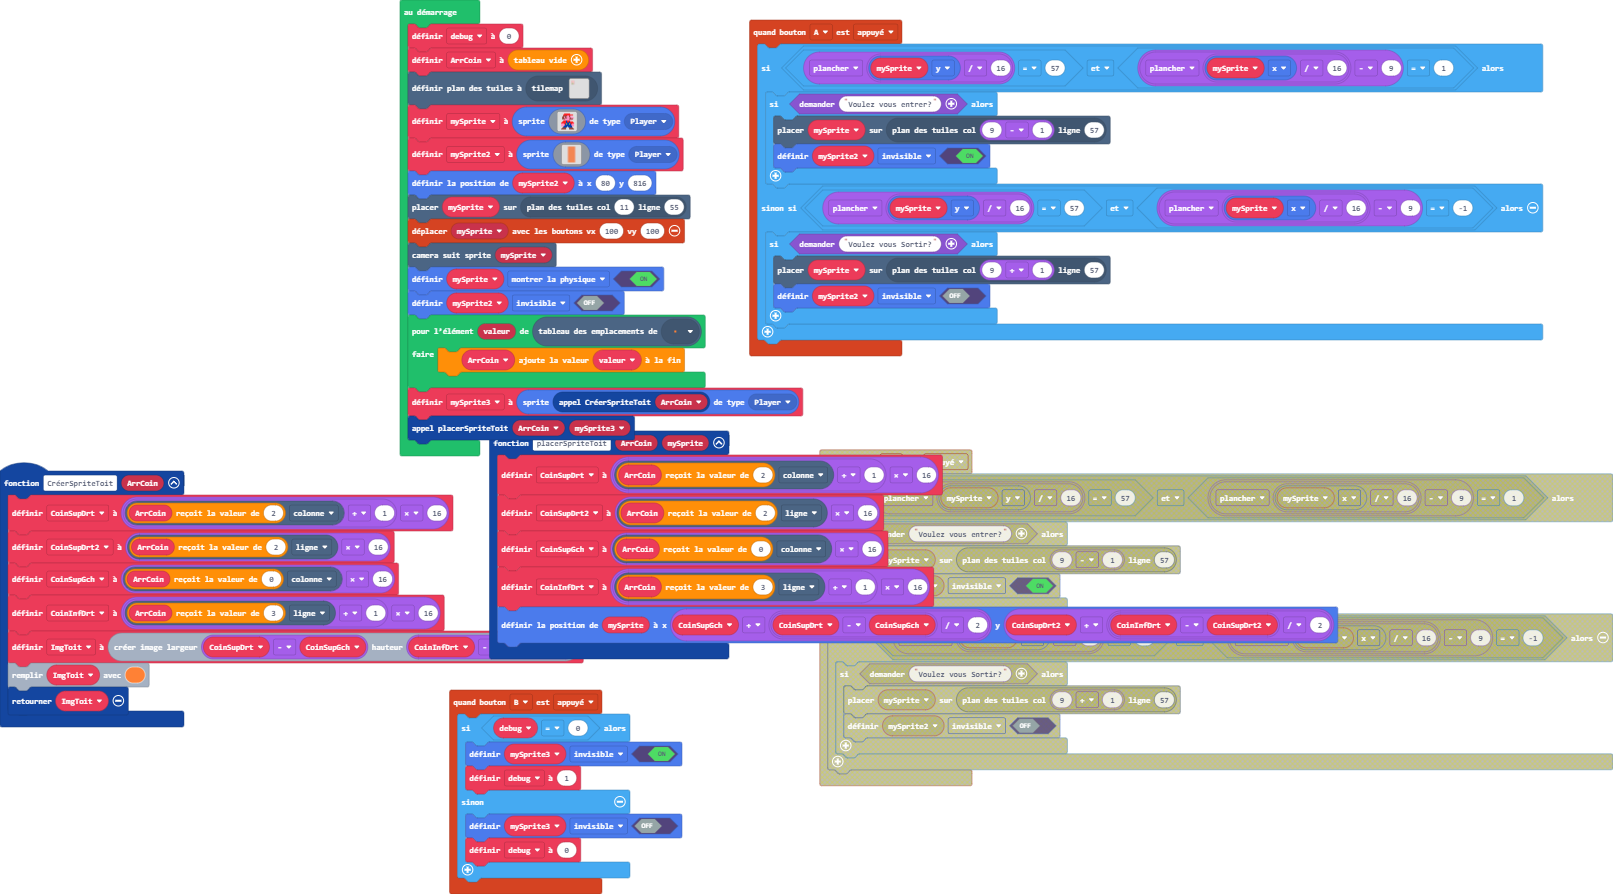
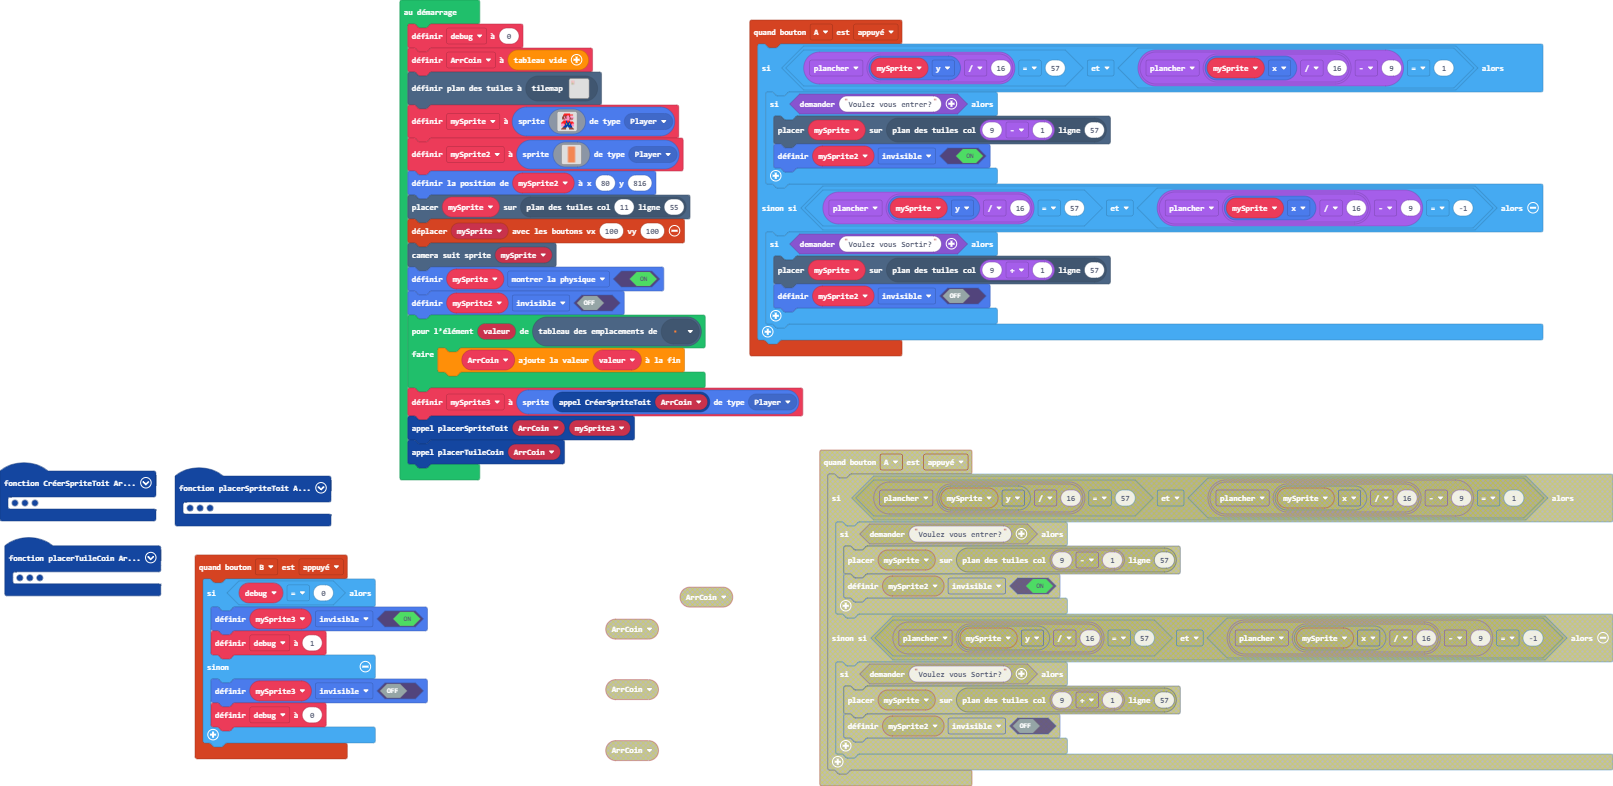
Mise à jour main.blocks, main.ts, tilemap.g.jres, tilemap.g.ts

diff --git a/tilemap.g.ts b/tilemap.g.ts
@@ -52,6 +52,14 @@ namespace myTiles {
     export const tile24 = image.ofBuffer(hex``);
     //% fixedInstance jres blockIdentity=images._tile
     export const tile25 = image.ofBuffer(hex``);
+    //% fixedInstance jres blockIdentity=images._tile
+    export const tile26 = image.ofBuffer(hex``);
+    //% fixedInstance jres blockIdentity=images._tile
+    export const tile27 = image.ofBuffer(hex``);
+    //% fixedInstance jres blockIdentity=images._tile
+    export const tile28 = image.ofBuffer(hex``);
+    //% fixedInstance jres blockIdentity=images._tile
+    export const tile29 = image.ofBuffer(hex``);
 
     helpers._registerFactory("tilemap", function(name: string) {
         switch(helpers.stringTrim(name)) {
@@ -570,7 +578,7 @@ namespace myTiles {
 ...............................................................................................................................................................................................................................................................
 ...............................................................................................................................................................................................................................................................
 ...............................................................................................................................................................................................................................................................
-`, [myTiles.transparency16,myTiles.tile1,myTiles.tile2,myTiles.tile4,myTiles.tile5,sprites.castle.tileGrass2,sprites.dungeon.purpleOuterNorth1,sprites.dungeon.purpleOuterWest1,sprites.dungeon.purpleOuterNorth0,sprites.castle.tilePath5,sprites.swamp.swampTile16,myTiles.tile12,myTiles.tile15,sprites.castle.tilePath6,sprites.castle.tilePath8,sprites.castle.tileGrass3,sprites.castle.tilePath3,sprites.castle.tilePath9,sprites.castle.tileGrass1,sprites.castle.tilePath2,sprites.castle.tilePath7,sprites.castle.tilePath4,sprites.castle.tilePath1,sprites.swamp.swampTile9,sprites.dungeon.purpleOuterEast1,sprites.dungeon.purpleOuterEast0,sprites.dungeon.purpleOuterNorthEast,myTiles.tile18,myTiles.tile19,myTiles.tile20,myTiles.tile17,myTiles.tile21,myTiles.tile23,myTiles.tile22,myTiles.tile24,myTiles.tile25,sprites.dungeon.greenOuterEast0,sprites.dungeon.greenOuterWest0,sprites.dungeon.greenOuterSouth1,sprites.dungeon.greenOuterNorth0], TileScale.Sixteen);
+`, [myTiles.transparency16,myTiles.tile1,myTiles.tile2,myTiles.tile4,myTiles.tile5,sprites.castle.tileGrass2,sprites.dungeon.purpleOuterNorth1,sprites.dungeon.purpleOuterWest1,sprites.dungeon.purpleOuterNorth0,sprites.castle.tilePath5,sprites.swamp.swampTile16,myTiles.tile12,myTiles.tile15,sprites.castle.tilePath6,sprites.castle.tilePath8,sprites.castle.tileGrass3,sprites.castle.tilePath3,sprites.castle.tilePath9,sprites.castle.tileGrass1,sprites.castle.tilePath2,sprites.castle.tilePath7,sprites.castle.tilePath4,sprites.castle.tilePath1,sprites.swamp.swampTile9,sprites.dungeon.purpleOuterEast1,sprites.dungeon.purpleOuterEast0,sprites.dungeon.purpleOuterNorthEast,myTiles.tile18,myTiles.tile19,myTiles.tile20,myTiles.tile17,myTiles.tile21,myTiles.tile23,myTiles.tile22,myTiles.tile24,myTiles.tile25,sprites.dungeon.greenOuterEast0,sprites.dungeon.greenOuterWest0,sprites.dungeon.greenOuterSouth1,sprites.dungeon.greenOuterNorth0,myTiles.tile26,myTiles.tile27,myTiles.tile28,myTiles.tile29], TileScale.Sixteen);
         }
         return null;
     })
@@ -626,6 +634,14 @@ namespace myTiles {
             case "tile24":return tile24;
             case "TuileCoinBatTest":
             case "tile25":return tile25;
+            case "myTile":
+            case "tile26":return tile26;
+            case "myTile0":
+            case "tile27":return tile27;
+            case "myTile3":
+            case "tile28":return tile28;
+            case "myTile5":
+            case "tile29":return tile29;
         }
         return null;
     })

diff --git a/main.ts b/main.ts
@@ -5,6 +5,19 @@ function placerSpriteToit (ArrCoin: tiles.Location[], mySprite: Sprite) {
     CoinInfDrt = (ArrCoin[3].row + 1) * 16
     mySprite.setPosition(CoinSupGch + (CoinSupDrt - CoinSupGch) / 2, CoinSupDrt2 + (CoinInfDrt - CoinSupDrt2) / 2)
 }
+function placerTuileCoin (ArrCoin: tiles.Location[]) {
+    for (let valeur of ArrCoin) {
+        if (ArrCoin.indexOf(valeur) == 0) {
+            tiles.setTileAt(valeur, assets.tile`myTile`)
+        } else if (ArrCoin.indexOf(valeur) == 1) {
+            tiles.setTileAt(valeur, assets.tile`myTile3`)
+        } else if (ArrCoin.indexOf(valeur) == 2) {
+            tiles.setTileAt(valeur, assets.tile`myTile0`)
+        } else {
+            tiles.setTileAt(valeur, assets.tile`myTile5`)
+        }
+    }
+}
 function CréerSpriteToit (ArrCoin: tiles.Location[]) {
     CoinSupDrt = (ArrCoin[2].column + 1) * 16
     CoinSupDrt2 = ArrCoin[2].row * 16
@@ -78,3 +91,4 @@ for (let valeur of tiles.getTilesByType(assets.tile`TuileCoinBatTest`)) {
 }
 mySprite3 = sprites.create(CréerSpriteToit(ArrCoin), SpriteKind.Player)
 placerSpriteToit(ArrCoin, mySprite3)
+placerTuileCoin(ArrCoin)
